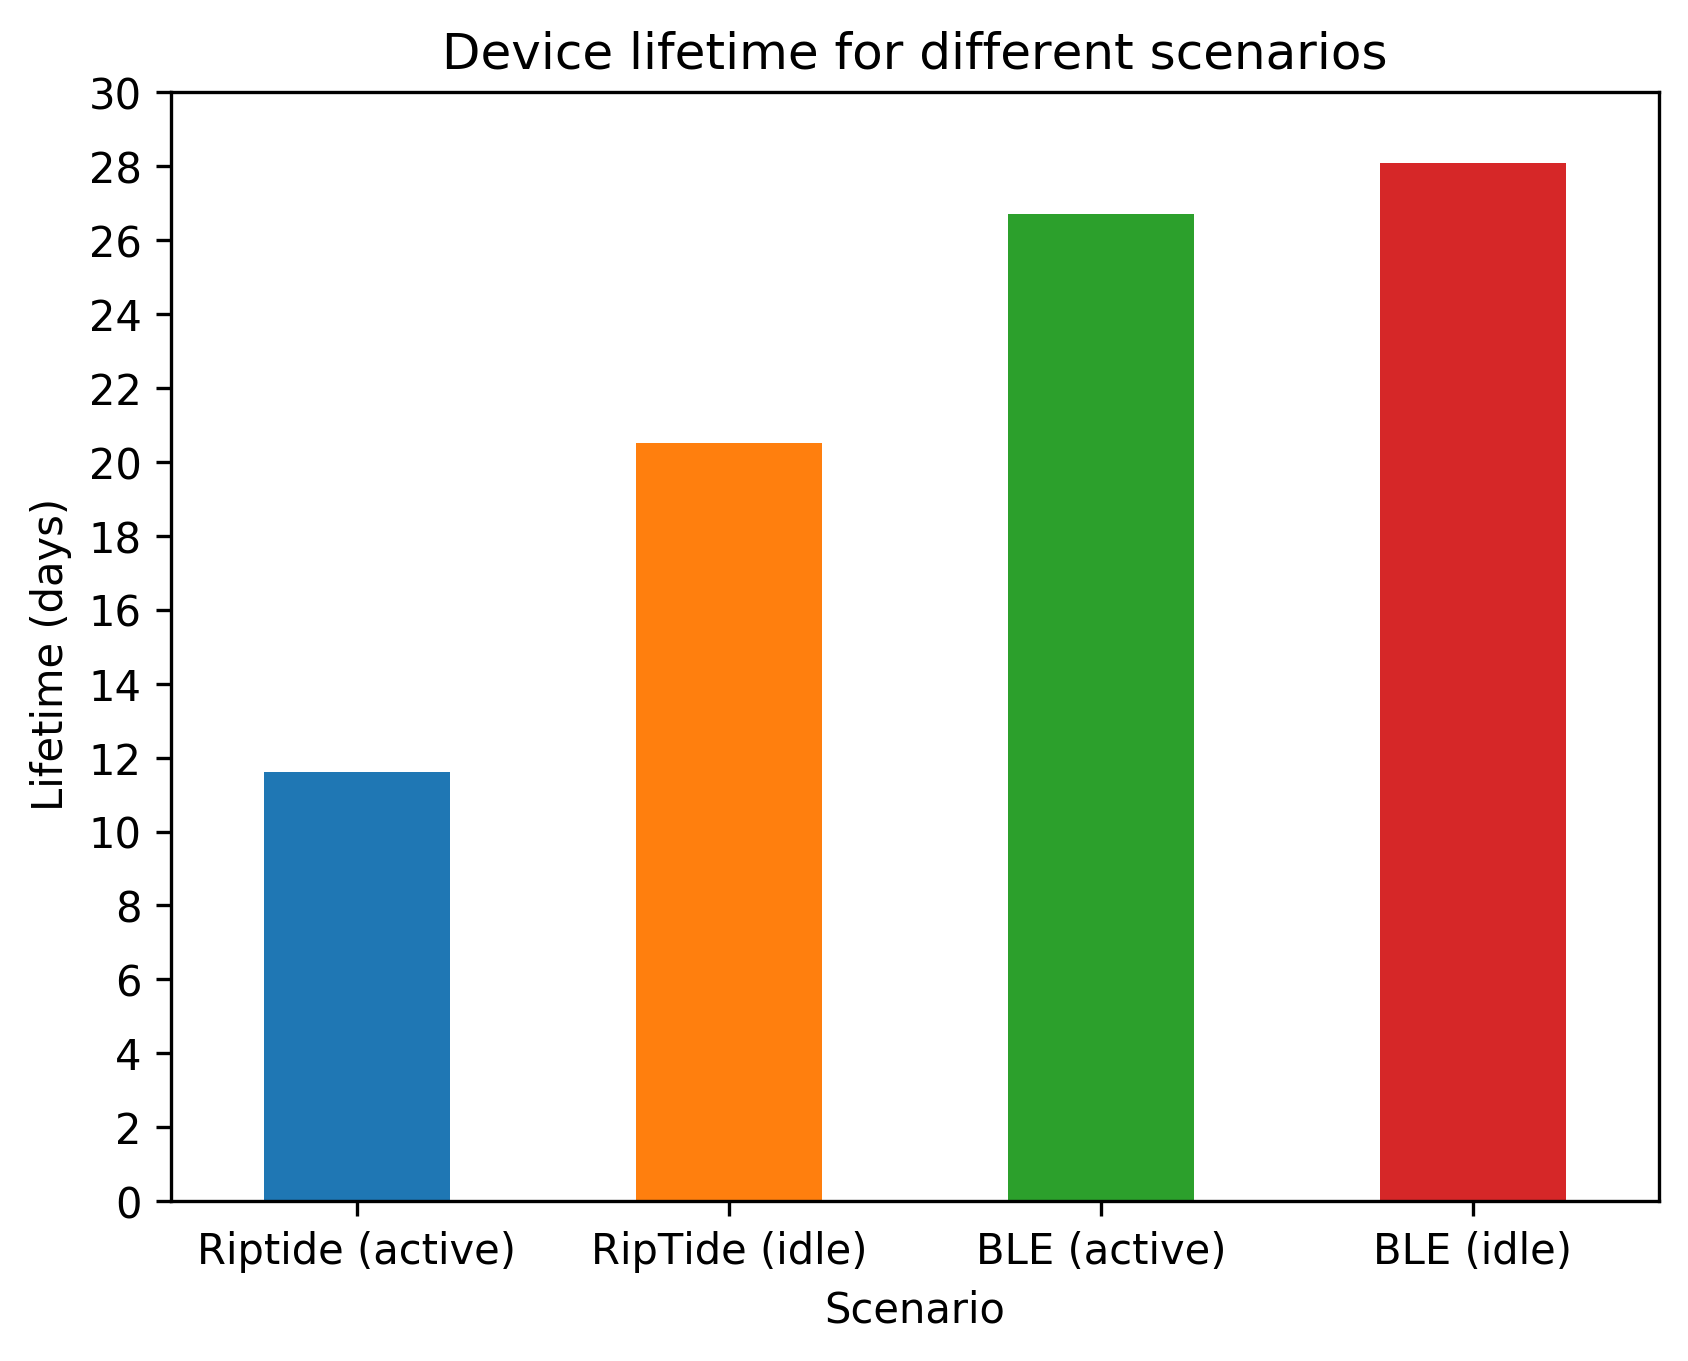
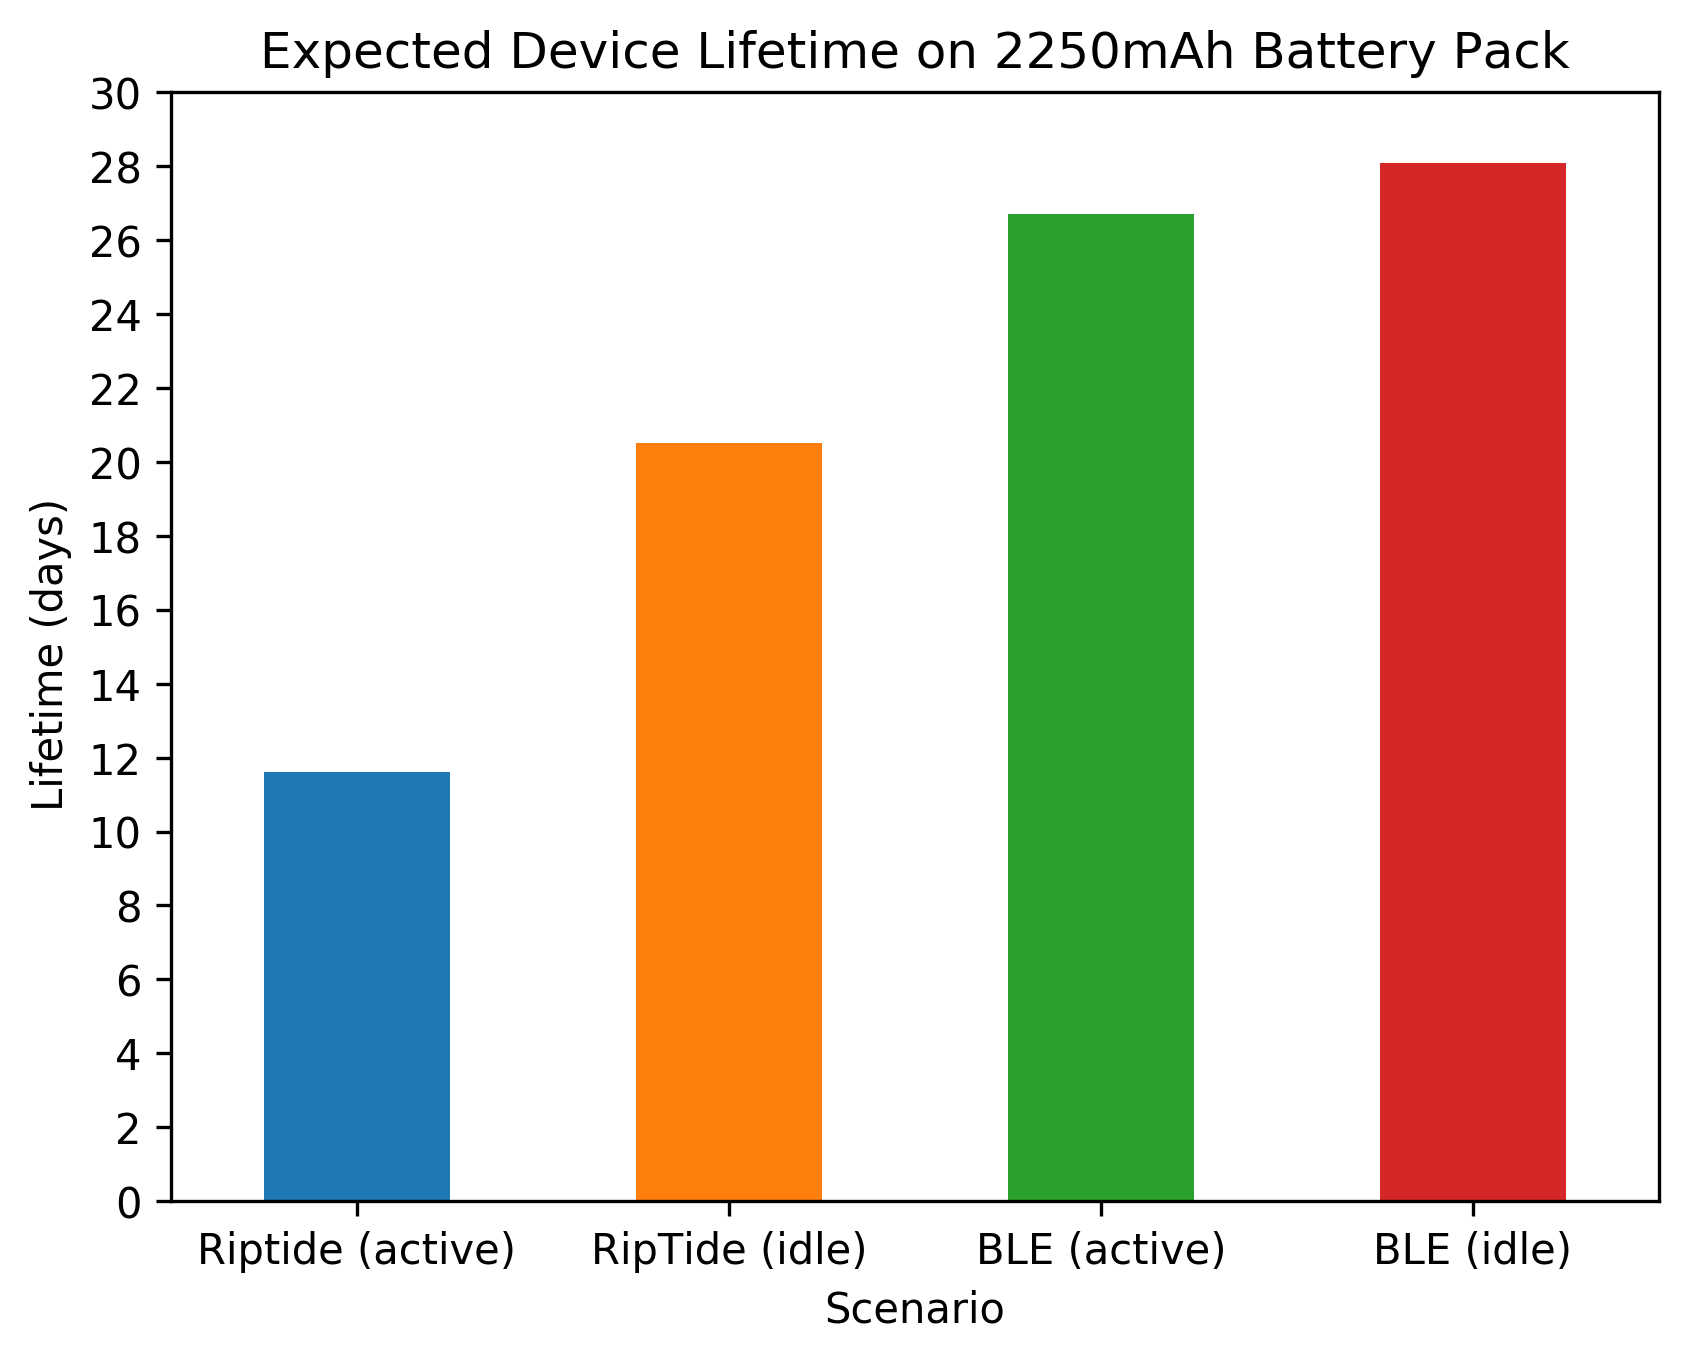
update chart title

Changed region(s): [[0.154, 0.0, 0.9242, 0.0617]]

diff --git a/results/energy-analysis/energy_days.py b/results/energy-analysis/energy_days.py
@@ -2,7 +2,7 @@ import pandas as pd
 
 
 out_file = "energy-consumption-days"
-title = "Device lifetime for different scenarios"
+title = "Expected Device Lifetime on 2250mAh Battery Pack"
 x_axis = "Scenario"
 y_axis = "Lifetime (days) "
 labels = ["Riptide (active)", "RipTide (idle)", "BLE (active)", "BLE (idle)"]
